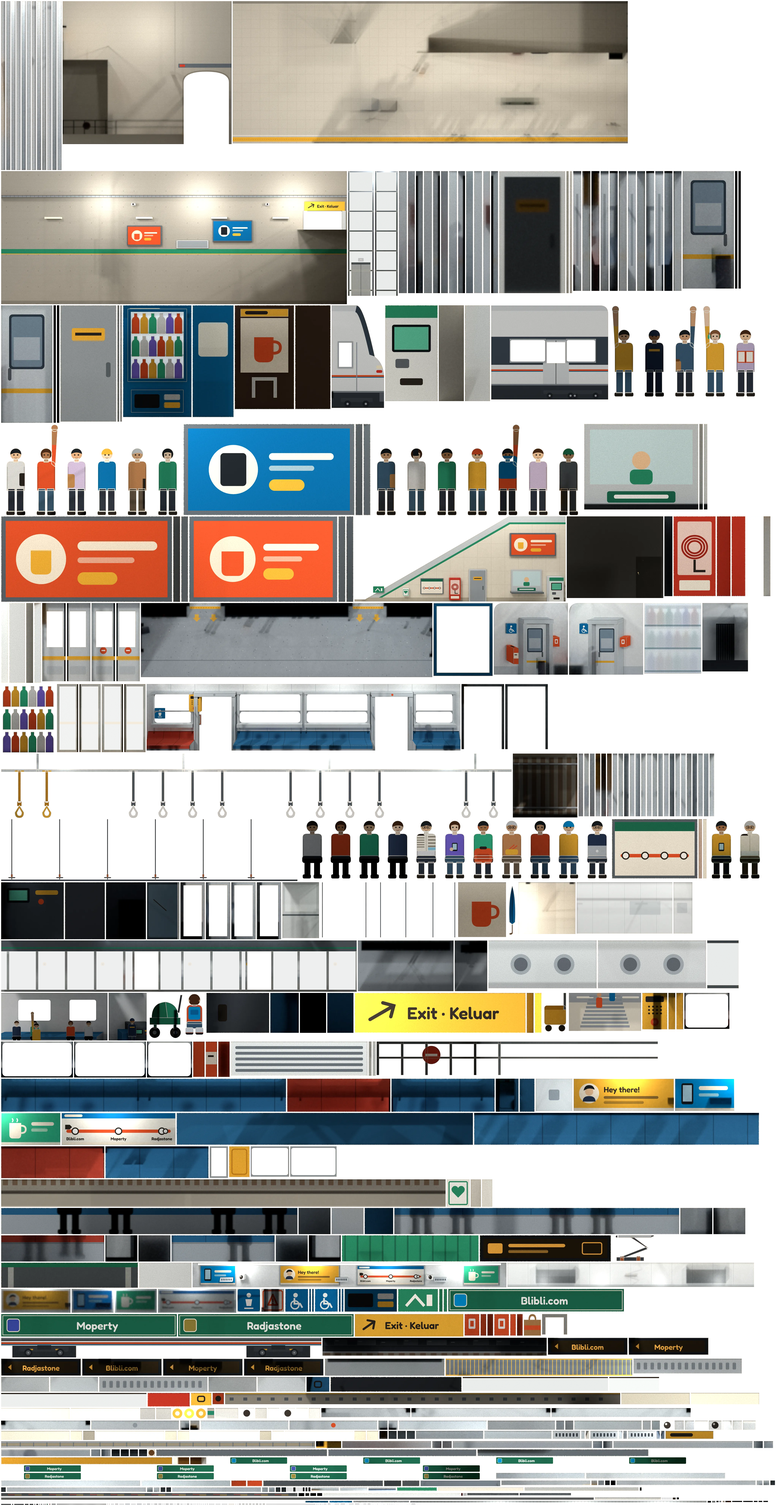
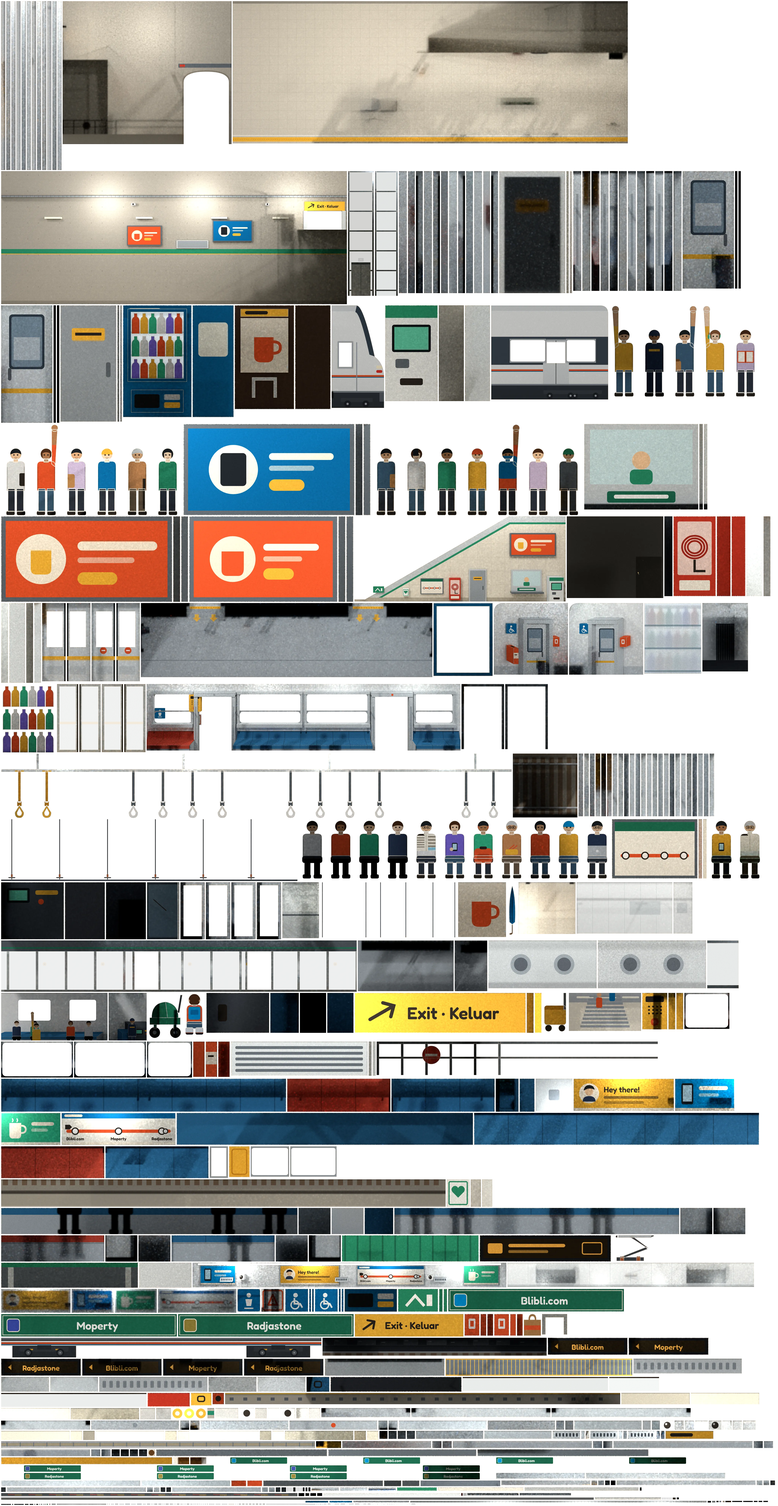
papercraft: the lift rides up to the exit deck beside the escalator
Claude-Session: https://claude.ai/code/session_01YPNotQo1bPEcuKN34wT7ze

diff --git a/game/src/art/scenes/station.ts b/game/src/art/scenes/station.ts
@@ -182,16 +182,17 @@ function escalator(): Panel[] {
   return [core, ...relief, ...glass, steps, deck, ...riders];
 }
 
-// The glass lift on the left: shaft glass with its landing door, the cabin on its way up with two passengers.
+// The glass lift beside the exit deck, behind the escalator: it rides from the platform up to the deck, so both ways
+// up arrive at the exit. Shaft glass with its landing door, the cabin on its way up with two passengers.
 function lift(): Panel[] {
-  const x0 = -1060, w = 170, zf = -820, d = 150, H = 820;
+  const x0 = ST.ESC_X + (ST.DECK_Y - 14) / Math.tan(Math.PI / 6) - 176, w = 170, zf = -900, d = 150, H = 820;
   const transoms = Array.from({ length: 7 }, (_, i) => `<rect y="${i * 130}" width="${w}" height="8" fill="#fff"/>`).join('');
   const frameMask = (ww: number, door: boolean) => `<rect width="${ww}" height="${H}" fill="#fff" fill-opacity=".26"/><rect width="10" height="${H}" fill="#fff"/><rect x="${ww - 10}" width="10" height="${H}" fill="#fff"/>${transoms}${door ? `<rect x="22" y="${H - 220}" width="${ww - 44}" height="220" fill="#fff"/>` : ''}`;
   const shaftPrint = (ww: number, door: boolean) => `<rect width="${ww}" height="${H}" fill="${GLASS}"/><rect width="10" height="${H}" fill="${STEEL}"/><rect x="${ww - 10}" width="10" height="${H}" fill="${STEEL}"/>${Array.from({ length: 7 }, (_, i) => `<rect y="${i * 130}" width="${ww}" height="8" fill="${STEEL}"/>`).join('')}`
     + (door ? `<rect x="22" y="${H - 220}" width="${ww - 44}" height="220" fill="${STAINLESS}"/><rect x="${ww / 2 - 1}" y="${H - 206}" width="2" height="206" fill="${STEEL}"/><rect x="22" y="${H - 220}" width="${ww - 44}" height="14" fill="${STEEL}"/><rect x="${ww / 2 - 18}" y="${H - 248}" width="36" height="22" rx="3" fill="#14171b"/><path d="M${ww / 2 - 8} ${H - 232}l8 -8 8 8" stroke="#ffb648" stroke-width="2.4" fill="none"/>` : '');
   const front: Panel = { id: 'lift-front', stock: 'vellum', c: GLASS, w, h: H, o: [x0, 0, zf], u: [1, 0, 0], v: [0, 1, 0], edge: 'cut', density: .8, split: 2, mask: frameMask(w, true), print: shaftPrint(w, true) };
-  const side: Panel = { id: 'lift-side', stock: 'vellum', c: GLASS, w: d, h: H, o: [x0 + w, 0, zf], u: [0, 0, -1], v: [0, 1, 0], edge: 'cut', density: .8, mask: frameMask(d, false), print: shaftPrint(d, false) };
-  const cy = 340, ch = 210, cx0 = x0 + 16, cw = w - 32, cz = zf - 14, cd = d - 28;
+  const side: Panel = { id: 'lift-side', stock: 'vellum', c: GLASS, w: d, h: H, o: [x0, 0, zf - d], u: [0, 0, 1], v: [0, 1, 0], edge: 'cut', density: .8, mask: frameMask(d, false), print: shaftPrint(d, false) };
+  const cy = ST.DECK_Y - 60, ch = 210, cx0 = x0 + 16, cw = w - 32, cz = zf - 14, cd = d - 28;
   const back: Panel = { id: 'cab-back', stock: 'cover', c: STAINLESS, w: cw, h: ch, o: [cx0, cy, cz - cd], u: [1, 0, 0], v: [0, 1, 0], edge: 'fold', density: 1.4, print: `<rect width="${cw}" height="${ch}" fill="${STAINLESS}"/><rect y="${ch - 90}" width="${cw}" height="6" fill="${STEEL}"/><rect x="10" y="10" width="${cw - 20}" height="${ch - 110}" fill="#e3eaef"/>` };
   const lid: Panel = { id: 'cab-top', stock: 'greyboard', c: '#8e959c', w: cw, h: cd, o: [cx0, cy + ch, cz], u: [1, 0, 0], v: [0, 0, -1], edge: 'fold', density: 1.4, print: `<rect width="${cw}" height="${cd}" fill="#8e959c"/><rect x="${cw / 2 - 20}" y="${cd / 2 - 20}" width="40" height="40" rx="6" fill="${STEEL}"/>` };
   const glassFront: Panel = { id: 'cab-front', stock: 'vellum', c: GLASS, w: cw, h: ch, o: [cx0, cy, cz], u: [1, 0, 0], v: [0, 1, 0], edge: 'cut', density: 1.2,
